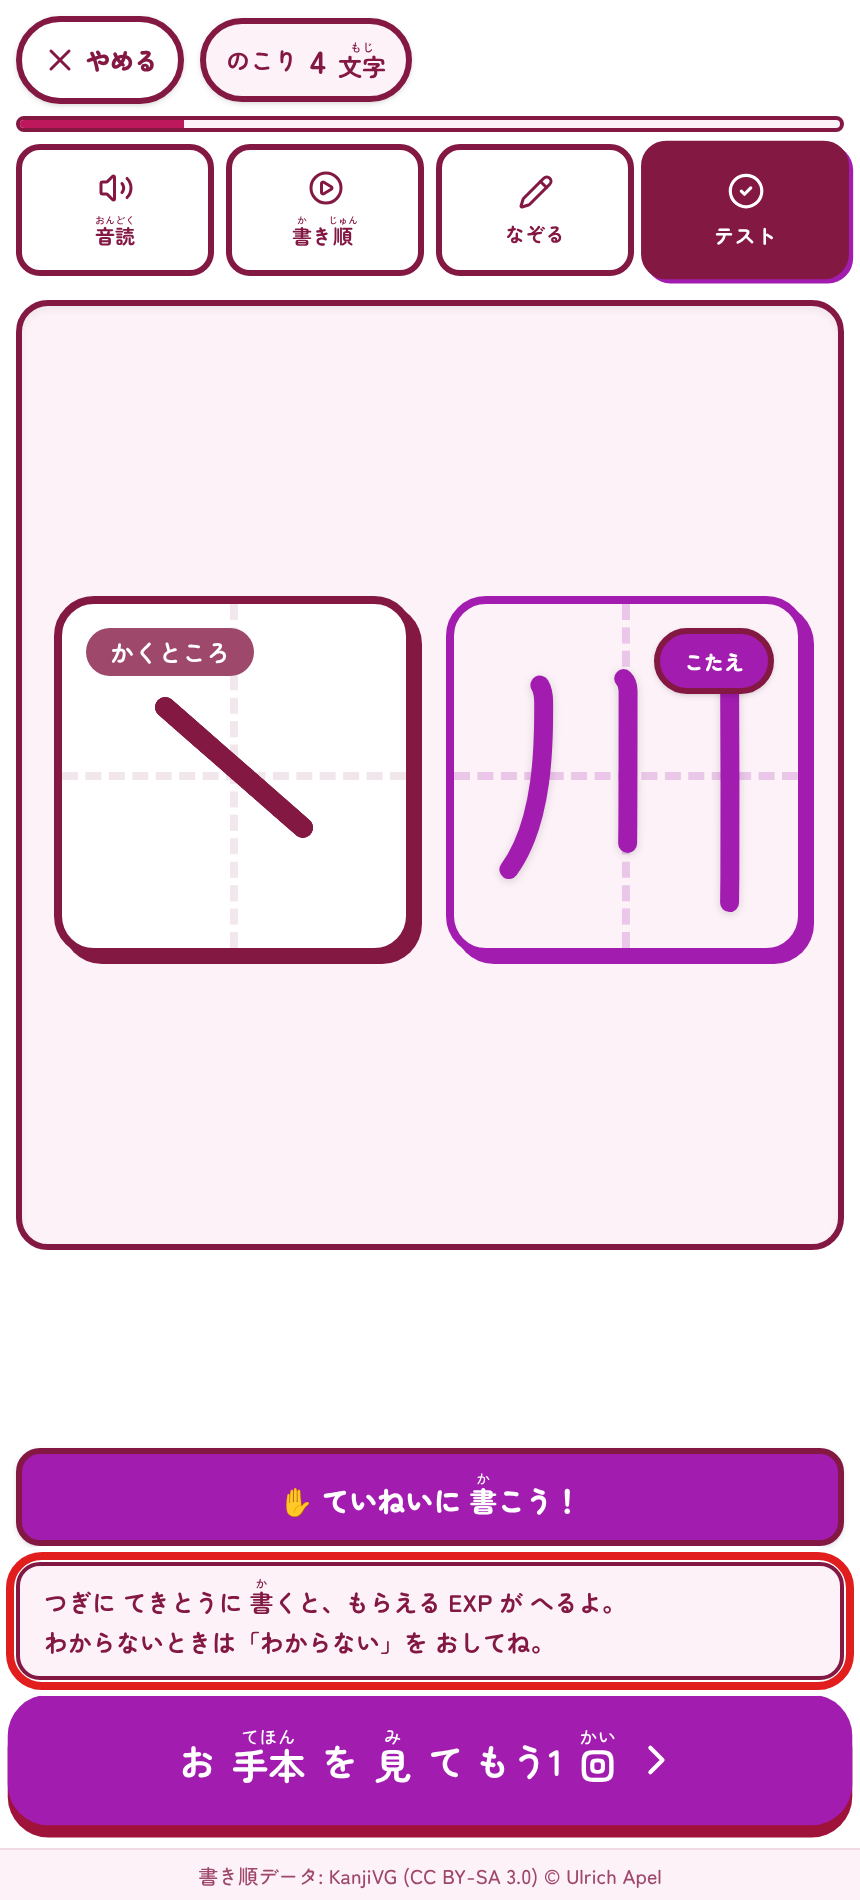
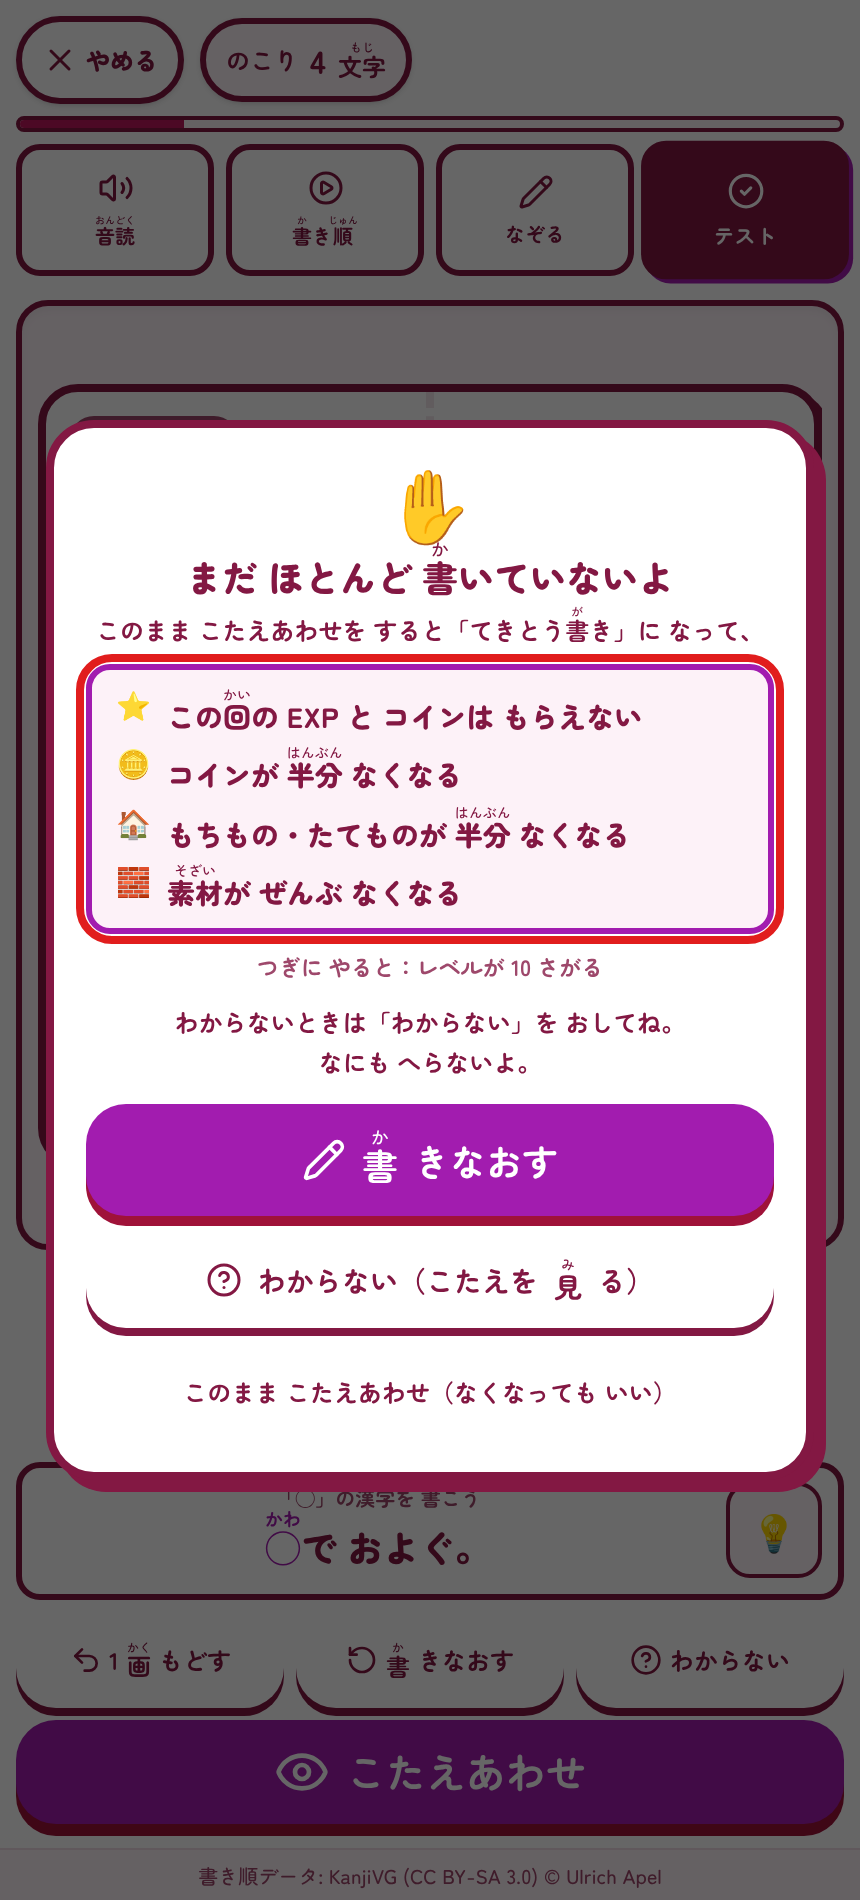
docs: てきとう書きの判定の直しと、重いペナルティ・元に戻す手順を、設計の文書とマニュアルに入れる
- docs/stroke-grading.md: てきとう書きの決まりを今の形に直した。書こうとした字を巻きこまないことを確かめた
  試算の表（続けて書いた字・とぎれた画・手のひらの点）と、確かめの画面・ペナルティの段・1日の上限・
  記録・元に戻す仕組みを足した。元に戻す前の確かめが確実に止める仕組みではないこと、バックアップの
  読みこみでも戻せてしまうことも書いてある
- README: 「書字の正誤判定」と「学習きろく」を今の動きに合わせた
- マニュアル: 「ほとんど書かずに『こたえあわせ』を おすと、だいじな ものが なくなる」の節を書きなおした
  （3つの えらび方・なくなるもの・先生向けの元に戻す手順）。町の章に「かれた土地」の説明を足した。
  写真は jd-02（確かめの画面）・jd-04（学習きろく）を撮りなおし、jd-05（なくなったもの）を足した

Claude-Session: https://claude.ai/code/session_01UfLrwEfi6QHW289yy7Zdrp

diff --git a/README.md b/README.md
@@ -48,11 +48,23 @@
 |---|---|---|
 | できた | 画数が合っていて40点以上（80点以上「よくできた」・55点以上「書けた」・ほかは「むずかしい」）。線の交わり・書き順がちがう字は50点以上で通し、評価は「むずかしい」まで | 「つぎへ」。評価は採点で決まり、児童は上げられない |
 | もう1回 | 画数がちがう・形が合わない・小さすぎる | お手本を見てやり直す。字として読み取れるもの（1画多いだけ、など）は、同じ字の2回目から「むずかしい」で通す |
-| てきとう書き | お手本の画数の1/3以下しか書いていない（3画以上の字）・2倍＋5画以上・線の長さが1割未満 | もう1回のうえ、1回の学習で2回目からは、その回の EXP が1回ごとに10%減る（上限50%。`CARELESS`） |
+| てきとう書き | ほとんど書いていない（線の長さがお手本の1割未満、または3画以上の字で画が1/3以下で、お手本の線の半分も書けていない） | 答えを見せる前に確かめる。「このまま こたえあわせ」を選ぶと、もう1回のうえ、下のペナルティ |
 
 - 以前は採点の「おすすめ」より1段上まで児童が選べ、おすすめが「忘れた」でも「むずかしい」を選べば先へ進めた。
   線を1本引くだけで新出字の EXP 50 が入り、1日の目標・連続日数・ミッションも進んでいた。
-- てきとう書きの回数はその日の記録（`stats.daily[日付].careless`）に残り、学習きろくに「きょう／7日間」で出る。
+- **てきとう書きのペナルティ**（`CARELESS`。計算は `src/systems/careless-penalty.js`）。重く、取り返しがつかないので、
+  何を失うかを先に見せ、児童が「このまま こたえあわせ」を選んだときにだけ科す（「書きなおす」「わからない」なら何も減らない）。
+  - そのまま進んだ回は、その回の EXP とコインを全部失う
+  - 通算1回目: コインの半分・もちものの半分（町に置いた建物もふくむ）・素材の全部
+  - 通算2回目: 上に加えて、レベルが10下がる
+  - 通算3回目から: 上に加えて、町の土地が5マス「かれた土地」になる（開拓も建築もできず、学習しても戻らない）
+  - コイン・もちものなどを失うのは1日に1回まで。段は `CARELESS.HEAVY_STEPS` で変えられる
+- 確かめが出た回数・そのまま進んだ回数・科したペナルティは記録に残り（`stats.daily[日付].carelessWarned`・`careless`、
+  `stats.carelessLog`）、学習きろくに出る。**まちがって科されたときは、学習きろくの「元に戻す（先生向け）」で、
+  いちばん新しい1件を戻せる。**
+- 続けて書いた字（1画に数えられる）・タッチがとぎれて画が切れた字・手のひらの点が入った字は、てきとう書きにしない
+  （お手本の線への重なりで見る）。でたらめな線をたくさん引いたものも、ほかの字の書きまちがいと見分けられないので、
+  てきとう書きにはしない（「もう1回」になるだけ）。
 - 1字もできていない学習は、学習の回数・「セッション」のミッション・レアドロップに数えず、
   連続日数も付けない（`countsAsLearningDay`）。答えた数と正解の数は残る（正答率に出る）。
 - 線引きは、実際の書き順データに「ていねいな字／雑な字／1画多い字／線1本／点／ほかの字」を
@@ -82,7 +94,8 @@
 
 - **学習きろく**：習得／学習中／未学習の内訳、4技能の習熟度、7日間の学習グラフ、
   さいきんのとりくみ、これから7日間の復習予報、苦手な字だけの集中練習。
-  テストでてきとうに書いた回数があるときは、きょうの分と7日間の分も出る（先生・保護者が見るため）。
+  てきとう書きがあったときは、その記録も出る（確かめが出た回数・そのまま進んだ回数・科したペナルティと、
+  先生向けの「元に戻す」）。
 - **図鑑**：1026字を学年・漢字・読みで検索。学年ごとの習得数を表示し、選んだ1字だけの練習も始められる。
 - **実績**：92種類。達成するとコイン・EXP・建物アイテムがもらえる。
 
